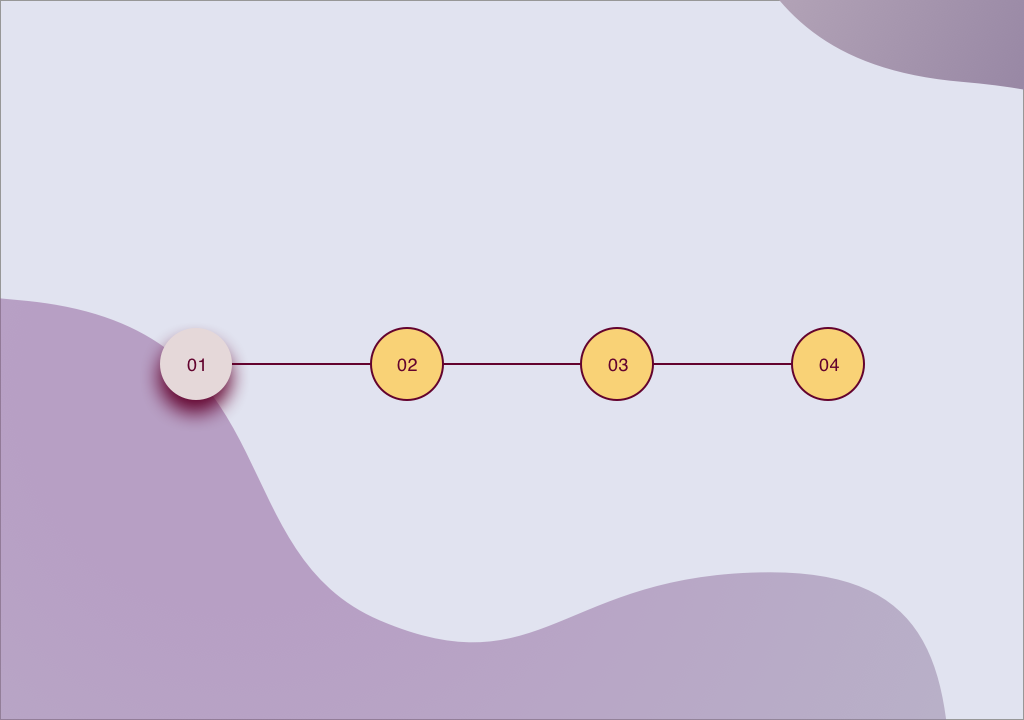
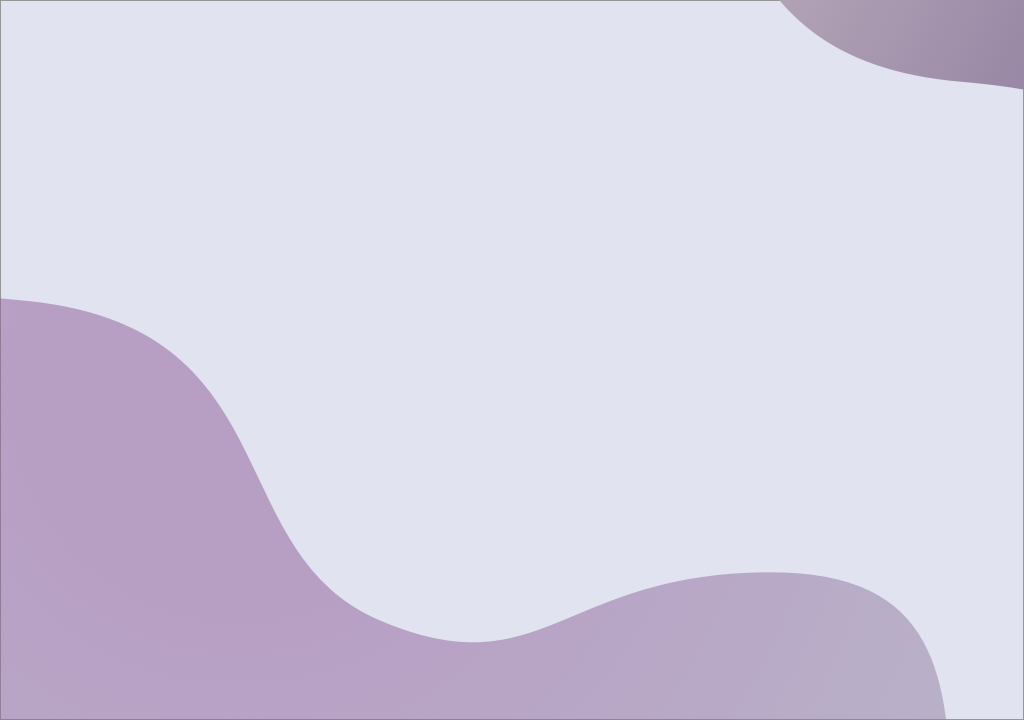
Correct works-div structure with and styling.

diff --git a/public/css/styles.css b/public/css/styles.css
@@ -65,16 +65,19 @@ li {
 .bio-div {
 	padding: 2% 7%;
 }
-.bio-text{
+.bio-text {
 	text-align: justify;
 }
 /* How it Works Section */
 .works-bk-img {
+	position: relative;
+	height: 60%;
 	width: 100%;
 	z-index: -1;
 }
 .works-div {
-	z-index: 1;
+	position: absolute;
+	top: 78rem;
 }
 /* section .how-it-works {
 	background-image: url('https://github.com/chingu-voyages/v10-geckos-team-14/blob/landingPage/public/images/H-t-Wk-background.png?raw=true')
